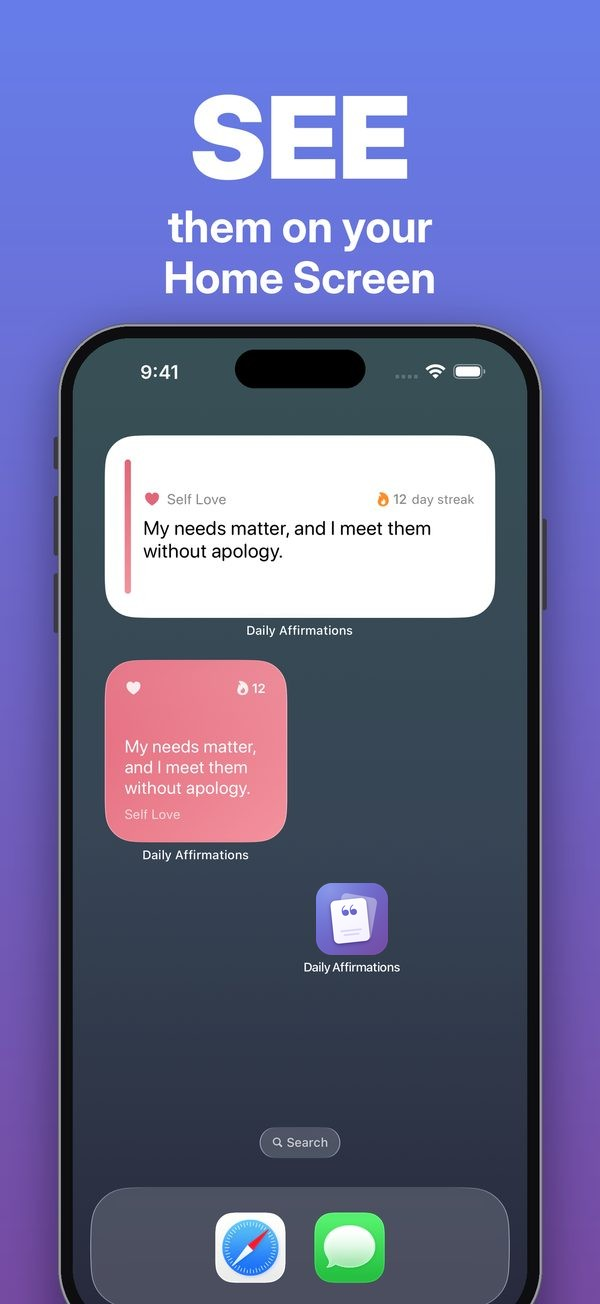
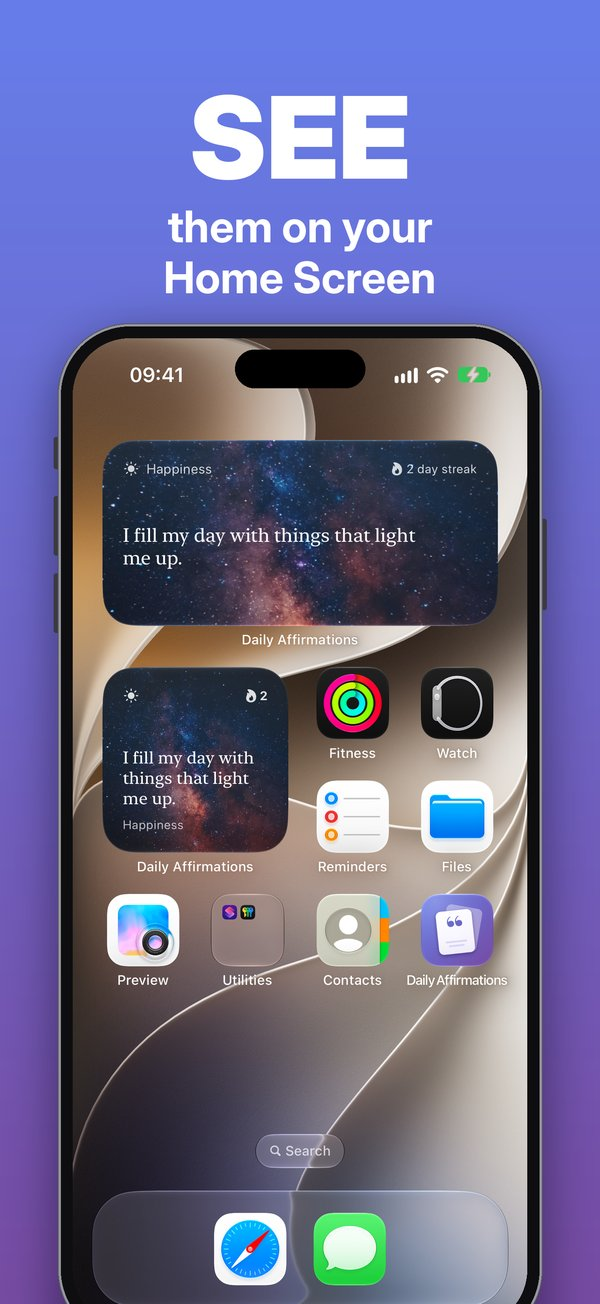
Show the new app design on acanalab.com, the Daily Affirmations page and the brand picker
- Daily Affirmations page: new hero phones, share image and screenshots
  (Today light and dark, Home Screen widgets, Favorites), a new STYLE
  screenshot for card styles in place of EXPLORE, card styles in the
  features and in the Free and Premium plans
- acanalab.com: card style button in the phone mockup, card styles in
  the feature list
- Brand picker: card style button on the Today preview
- Anxiety guide: use the Home Screen widgets screenshot, since the old
  EXPLORE screenshot is gone

Claude-Session: https://claude.ai/code/session_01TZoWyjUMYdWnx6pd6ZLJMu

diff --git a/dailyaffirmationsapp/index.html b/dailyaffirmationsapp/index.html
@@ -10,7 +10,7 @@
 <meta property="og:url" content="https://acanalab.com/dailyaffirmationsapp/">
 <meta property="og:title" content="Daily Affirmations App for iPhone">
 <meta property="og:description" content="Start your day with a kind word. Fresh affirmations every day, streaks, gentle reminders and widgets for your iPhone.">
-<meta property="og:image" content="https://acanalab.com/dailyaffirmationsapp/og-image.jpg">
+<meta property="og:image" content="https://acanalab.com/dailyaffirmationsapp/og-image.jpg?v=2">
 <meta property="og:image:width" content="1200">
 <meta property="og:image:height" content="630">
 <meta name="twitter:card" content="summary_large_image">
@@ -144,8 +144,8 @@ footer .love { margin-top: 8px; } footer .love span { color: #e2667a; }
     <p class="note">Free to download. For iPhone.<br><a href="guides/">Affirmation guides</a></p>
    </div>
    <div class="hero-art">
-     <img class="back" src="img/phone-swipe.webp" alt="" width="560" height="1150">
-     <img class="front" src="img/phone-today.webp" alt="The Today screen of Daily Affirmations with an affirmation card" width="560" height="1150">
+     <img class="back" src="img/phone-style.webp" alt="" width="560" height="1151">
+     <img class="front" src="img/phone-today.webp" alt="The Today screen of Daily Affirmations with an affirmation card" width="560" height="1151">
    </div>
   </div>
 </header>
@@ -158,8 +158,8 @@ footer .love { margin-top: 8px; } footer .love span { color: #e2667a; }
       <ul class="feats">
         <li><div class="ico"><svg viewBox="0 0 24 24"><path d="M12 3l2.6 5.6 6 .7-4.5 4.1 1.2 6L12 16.4 6.7 19.4l1.2-6L3.4 9.3l6-.7z"/></svg></div><b>Fresh every day</b><p>A new set of affirmations each morning. Swipe through them at your own pace.</p></li>
         <li><div class="ico"><svg viewBox="0 0 24 24"><path d="M4 6h16M4 12h16M4 18h10"/></svg></div><b>Hundreds of affirmations</b><p>Many categories, from self love and <a href="guides/gratitude-affirmations/">gratitude</a> to <a href="guides/affirmations-for-confidence/">confidence</a>, <a href="guides/affirmations-for-work/">work</a>, calm and <a href="guides/affirmations-for-anxiety/">affirmations for anxiety</a>.</p></li>
-        <li><div class="ico"><svg viewBox="0 0 24 24"><path d="M12 3c2 3 5 5 5 9a5 5 0 0 1-10 0c0-2 1-3.5 2-4.5 0 2 1 3 2 3 0-3 0-5 1-7.5z"/></svg></div><b>Streaks</b><p>See your progress grow, day by day, and celebrate every milestone.</p></li>
-        <li><div class="ico"><svg viewBox="0 0 24 24"><path d="M6 16V11a6 6 0 0 1 12 0v5l1.5 2h-15zM10 21h4"/></svg></div><b>Gentle reminders</b><p>Pick a time, morning or <a href="guides/affirmations-for-sleep/">bedtime</a>, and get one kind nudge a day. Change it or turn it off anytime.</p></li>
+        <li><div class="ico"><svg viewBox="0 0 24 24"><path d="M12 3c2 3 5 5 5 9a5 5 0 0 1-10 0c0-2 1-3.5 2-4.5 0 2 1 3 2 3 0-3 0-5 1-7.5z"/></svg></div><b>Streaks and reminders</b><p>Watch your streak grow and get one kind nudge a day, morning or <a href="guides/affirmations-for-sleep/">bedtime</a>. Change it or turn it off anytime.</p></li>
+        <li><div class="ico"><svg viewBox="0 0 24 24"><path d="M14.5 3.5l6 6-6.5 5-4.5-4.5zM9.5 10l4.5 4.5-1.5 2-5-5zM7.5 11.5l5 5-5.5 4c-1.2.9-3-.9-2.1-2.1z"/></svg></div><b>Card styles</b><p>Dress your cards in calm photo and texture styles, from white dunes to a starry sky.</p></li>
         <li><div class="ico"><svg viewBox="0 0 24 24"><rect x="4" y="4" width="7" height="7" rx="2"/><rect x="13" y="4" width="7" height="7" rx="2"/><rect x="4" y="13" width="16" height="7" rx="2"/></svg></div><b>Widgets</b><p>Keep today's affirmation on your Home Screen and Lock Screen.</p></li>
         <li><div class="ico"><svg viewBox="0 0 24 24"><path d="M12 20s-7-4.4-7-10a4 4 0 0 1 7-2.6A4 4 0 0 1 19 10c0 5.6-7 10-7 10z"/></svg></div><b>Favorites and sharing</b><p>Save the ones you love and share them as beautiful cards.</p></li>
       </ul>
@@ -177,7 +177,7 @@ footer .love { margin-top: 8px; } footer .love span { color: #e2667a; }
         <img src="img/04-get.jpg" alt="Get a gentle daily reminder" loading="lazy" width="600" height="1304">
         <img src="img/05-build.jpg" alt="Build a daily habit" loading="lazy" width="600" height="1304">
         <img src="img/06-save.jpg" alt="Save the ones you love" loading="lazy" width="600" height="1304">
-        <img src="img/07-explore.jpg" alt="Explore affirmations for every part of life" loading="lazy" width="600" height="1304">
+        <img src="img/07-style.jpg" alt="Style your cards your way" loading="lazy" width="600" height="1304">
         <img src="img/08-share.jpg" alt="Share a little positivity" loading="lazy" width="600" height="1304">
       </div>
     </div>
@@ -186,7 +186,7 @@ footer .love { margin-top: 8px; } footer .love span { color: #e2667a; }
   <section>
     <div class="wrap">
       <h2>Start free. Go Premium when you’re ready.</h2>
-      <p class="sub">Your daily affirmations, streaks and reminders are free, with no time limit. Premium adds widgets, every category and unlimited favorites.</p>
+      <p class="sub">Your daily affirmations, streaks and reminders are free, with no time limit. Premium adds widgets, every category, every card style and unlimited favorites.</p>
       <div class="plans">
         <div class="plan">
           <h3>Free</h3>
@@ -197,6 +197,7 @@ footer .love { margin-top: 8px; } footer .love span { color: #e2667a; }
             <li>Streaks and daily reminders</li>
             <li>Save up to 15 favorites</li>
             <li>Share as cards</li>
+            <li>Two card styles</li>
           </ul>
         </div>
         <div class="plan premium">
@@ -205,6 +206,7 @@ footer .love { margin-top: 8px; } footer .love span { color: #e2667a; }
           <ul>
             <li>Hundreds more affirmations in every category</li>
             <li>Home Screen and Lock Screen widgets</li>
+            <li>Every card style</li>
             <li>Unlimited favorites</li>
             <li>Everything in Free</li>
             <li>New features as we add them</li>

diff --git a/dailyaffirmationsapp/guides/affirmations-for-anxiety/index.html b/dailyaffirmationsapp/guides/affirmations-for-anxiety/index.html
@@ -10,12 +10,12 @@
 <meta property="og:url" content="https://acanalab.com/dailyaffirmationsapp/guides/affirmations-for-anxiety/">
 <meta property="og:title" content="Affirmations for Anxiety: 40 Calming Phrases | Daily Affirmations">
 <meta property="og:description" content="40 affirmations for anxiety: for anxious moments, overthinking, social situations and sleepless nights, plus 5 steps to use them when worry hits.">
-<meta property="og:image" content="https://acanalab.com/dailyaffirmationsapp/img/07-explore.jpg">
+<meta property="og:image" content="https://acanalab.com/dailyaffirmationsapp/img/03-see.jpg">
 <meta name="twitter:card" content="summary_large_image">
 <link rel="icon" type="image/png" href="/app-icon.png">
 <link rel="apple-touch-icon" href="/app-icon.png">
 <link rel="stylesheet" href="/dailyaffirmationsapp/guides/guides.css?v=514439a8">
-<script type="application/ld+json">{"@context": "https://schema.org", "@type": "Article", "headline": "Affirmations for anxiety: 40 calming phrases", "description": "40 affirmations for anxiety: for anxious moments, overthinking, social situations and sleepless nights, plus 5 steps to use them when worry hits.", "image": "https://acanalab.com/dailyaffirmationsapp/img/07-explore.jpg", "datePublished": "2026-10-22", "dateModified": "2026-10-22", "mainEntityOfPage": "https://acanalab.com/dailyaffirmationsapp/guides/affirmations-for-anxiety/", "author": {"@type": "Organization", "name": "acanalab", "url": "https://acanalab.com/"}, "publisher": {"@type": "Organization", "name": "acanalab", "url": "https://acanalab.com/"}}</script>
+<script type="application/ld+json">{"@context": "https://schema.org", "@type": "Article", "headline": "Affirmations for anxiety: 40 calming phrases", "description": "40 affirmations for anxiety: for anxious moments, overthinking, social situations and sleepless nights, plus 5 steps to use them when worry hits.", "image": "https://acanalab.com/dailyaffirmationsapp/img/03-see.jpg", "datePublished": "2026-10-22", "dateModified": "2026-10-22", "mainEntityOfPage": "https://acanalab.com/dailyaffirmationsapp/guides/affirmations-for-anxiety/", "author": {"@type": "Organization", "name": "acanalab", "url": "https://acanalab.com/"}, "publisher": {"@type": "Organization", "name": "acanalab", "url": "https://acanalab.com/"}}</script>
 <script type="application/ld+json">{"@context": "https://schema.org", "@type": "FAQPage", "mainEntity": [{"@type": "Question", "name": "Do affirmations help with anxiety?", "acceptedAnswer": {"@type": "Answer", "text": "They can help many people feel steadier in anxious moments, especially when the words are believable and practised daily. They work as a support alongside other habits like slow breathing, not as a treatment. If anxiety affects your daily life, speak to a doctor or therapist."}}, {"@type": "Question", "name": "What is a good affirmation for anxiety?", "acceptedAnswer": {"@type": "Answer", "text": "Short, honest sentences work best, such as \"This feeling is uncomfortable, and it will pass\" or \"I am safe right now\". They acknowledge the feeling instead of arguing with it."}}, {"@type": "Question", "name": "When should I say affirmations for anxiety?", "acceptedAnswer": {"@type": "Answer", "text": "Practise them once a day when you're calm, for example in the morning, so they're familiar. Then use one or two in the moment, paired with slow breaths, when you notice worry building."}}, {"@type": "Question", "name": "What if affirmations make my anxiety worse?", "acceptedAnswer": {"@type": "Answer", "text": "That usually means the sentence feels too far from how you feel. Soften it with a phrase like \"I am learning to\" or \"Right now, I\", or try a grounding exercise first and come back to the words later."}}]}</script>
 <script type="application/ld+json">{"@context": "https://schema.org", "@type": "BreadcrumbList", "itemListElement": [{"@type": "ListItem", "position": 1, "name": "Daily Affirmations", "item": "https://acanalab.com/dailyaffirmationsapp/"}, {"@type": "ListItem", "position": 2, "name": "Guides", "item": "https://acanalab.com/dailyaffirmationsapp/guides/"}, {"@type": "ListItem", "position": 3, "name": "Affirmations for anxiety: 40 calming phrases", "item": "https://acanalab.com/dailyaffirmationsapp/guides/affirmations-for-anxiety/"}]}</script>
 </head>
@@ -120,7 +120,7 @@
 <p>Naming the feeling makes the sentence honest. The second half gives you something you can actually do. For more ways to make an affirmation feel true, see <a href="../how-to-write-affirmations/">how to write affirmations</a>, and on hard days, a few <a href="../self-love-affirmations/">self-love affirmations</a> can help too.</p>
 
 <aside class="app">
-  <img src="/dailyaffirmationsapp/img/07-explore.jpg" alt="Exploring affirmation categories in Daily Affirmations" width="600" height="1304" loading="lazy">
+  <img src="/dailyaffirmationsapp/img/03-see.jpg" alt="Daily Affirmations widgets on the iPhone Home Screen" width="600" height="1304" loading="lazy">
   <div>
     <h2>Make it a daily habit</h2>
     <p>Daily Affirmations brings you a fresh set every morning, so calming words become familiar before you need them. Peace is a free category, Anxiety Relief is part of Premium, and a Home Screen widget keeps one steady sentence in sight all day.</p>

diff --git a/index.html b/index.html
@@ -109,6 +109,7 @@ h1 .grad { background: linear-gradient(135deg, var(--brand-a), var(--brand-b)); 
 .ui .batt { width: 27px; height: 13px; border-radius: 4px; background: #fff; position: relative; }
 .ui .batt::after { content: ""; position: absolute; right: -3px; top: 4px; width: 2px; height: 5px; border-radius: 1px; background: rgba(255,255,255,.5); }
 .ui .gear { position: absolute; left: 16px; top: 62px; width: 44px; height: 44px; border-radius: 50%; display: grid; place-items: center; font-size: 24px; background: rgba(58,58,60,.75); border: .5px solid rgba(255,255,255,.12); }
+.ui .brush { position: absolute; right: 16px; top: 62px; width: 44px; height: 44px; border-radius: 50%; display: grid; place-items: center; font-size: 22px; background: rgba(58,58,60,.75); border: .5px solid rgba(255,255,255,.12); }
 .ui .head { position: absolute; top: 124px; left: 16px; right: 16px; display: flex; justify-content: space-between; align-items: center; }
 .ui h3 { margin: 0; font-size: 28px; font-weight: 700; line-height: 1.1; font-family: ui-rounded, "SF Pro Rounded", -apple-system, system-ui, sans-serif; }
 .ui .date { font-size: 14px; font-weight: 500; color: rgba(235,235,245,.6); margin-top: 4px; }
@@ -296,6 +297,7 @@ footer .love { margin-top: 8px; } footer .love span { color: #e2667a; }
             <svg width="0" height="0" style="position:absolute"><defs><linearGradient id="hpFlame" x1="0" y1="1" x2="0" y2="0"><stop offset="0" stop-color="#ff9500"/><stop offset="1" stop-color="#ff3b30"/></linearGradient></defs></svg>
             <div class="status"><span>9:41</span><span class="island"></span><span class="batt"></span></div>
             <div class="gear"><svg viewBox="0 0 24 24"><path fill="none" stroke="currentColor" stroke-width="1.7" stroke-linejoin="round" d="M10.4 2.8h3.2l.5 2.5 1.7.8 2.2-1.5 2.3 2.3-1.5 2.2.8 1.7 2.5.5v3.2l-2.5.5-.8 1.7 1.5 2.2-2.3 2.3-2.2-1.5-1.7.8-.5 2.5h-3.2l-.5-2.5-1.7-.8-2.2 1.5-2.3-2.3 1.5-2.2-.8-1.7-2.5-.5v-3.2l2.5-.5.8-1.7-1.5-2.2 2.3-2.3 2.2 1.5 1.7-.8z"/><circle cx="12" cy="12" r="3.3" fill="none" stroke="currentColor" stroke-width="1.7"/></svg></div>
+            <div class="brush"><svg viewBox="0 0 24 24"><path fill="none" stroke="currentColor" stroke-width="1.7" stroke-linejoin="round" stroke-linecap="round" d="M14.5 3.5l6 6-6.5 5-4.5-4.5zM9.5 10l4.5 4.5-1.5 2-5-5zM7.5 11.5l5 5-5.5 4c-1.2.9-3-.9-2.1-2.1z"/></svg></div>
             <div class="head">
               <div><h3>Today</h3><div class="date" id="mockDate">Tuesday, 13 October</div></div>
               <div class="streak"><svg viewBox="0 0 24 24"><path d="M12.5 2c.6 3.8 5.5 6.2 5.5 11.5a6 6 0 0 1-12 0c0-2.8 1.4-4.6 3-5.8-.2 2.1.6 3.6 2 4 0-3.8-.6-6.3 1.5-9.7z"/></svg><b>7</b><span>days</span></div>
@@ -330,6 +332,7 @@ footer .love { margin-top: 8px; } footer .love span { color: #e2667a; }
           <li><span class="ico"><svg viewBox="0 0 24 24"><path d="M12 3c1 4 5 5 5 10a5 5 0 0 1-10 0c0-2.5 1.5-3.5 2-5 1 1 1.5 2 1.5 3 1-2 1.5-5 1.5-8z"/></svg></span><span><b>Streaks and reminders</b>a gentle daily habit that brings people back</span></li>
           <li><span class="ico"><svg viewBox="0 0 24 24"><rect x="3" y="3" width="7" height="7" rx="2"/><rect x="14" y="3" width="7" height="7" rx="2"/><rect x="3" y="14" width="7" height="7" rx="2"/><rect x="14" y="14" width="7" height="7" rx="2"/></svg></span><span><b>Widgets</b>on the Home Screen and Lock Screen</span></li>
           <li><span class="ico"><svg viewBox="0 0 24 24"><path d="M20.8 4.6a5.5 5.5 0 0 0-7.8 0L12 5.7l-1-1.1a5.5 5.5 0 0 0-7.8 7.8l1 1.1L12 21l7.8-7.5 1-1.1a5.5 5.5 0 0 0 0-7.8z"/></svg></span><span><b>Favorites and sharing</b>save the best ones and share them as cards</span></li>
+          <li><span class="ico"><svg viewBox="0 0 24 24"><path d="M14.5 3.5l6 6-6.5 5-4.5-4.5zM9.5 10l4.5 4.5-1.5 2-5-5zM7.5 11.5l5 5-5.5 4c-1.2.9-3-.9-2.1-2.1z"/></svg></span><span><b>Card styles</b>calm photo and texture backgrounds for every card</span></li>
         </ul>
         <a class="live" id="showcaseLink" href="dailyaffirmationsapp/" target="_blank" rel="noopener">
           <div class="info"><img src="app-icon.png" alt="" width="52" height="52"><span><b>Daily Affirmations</b><small>Our own app on the App Store</small></span></div>

diff --git a/design/index.html b/design/index.html
@@ -219,6 +219,7 @@ details.dev pre { background: var(--field); border: 1px solid var(--line); borde
 .ios-dark .glassbtn { background: rgba(58,58,60,.75); border-color: rgba(255,255,255,.1); }
 .today { background: var(--ios-grouped); height: 100%; position: relative; }
 .today .gear { left: 15px; top: 58px; }
+.today .brush { right: 15px; top: 58px; }
 .today .head { display: flex; justify-content: space-between; align-items: center; padding: 0 16px 0 16px; position: absolute; top: 120px; left: 0; right: 0; }
 .today h3 { font-family: ui-rounded, "SF Pro Rounded", -apple-system, system-ui, sans-serif; font-size: 28px; font-weight: 700; margin: 0; line-height: 1.1; }
 .today .date { font-size: 14px; font-weight: 500; color: var(--ios-secondary); margin-top: 4px; }
@@ -324,6 +325,7 @@ details.dev pre { background: var(--field); border: 1px solid var(--line); borde
     <symbol id="i-check" viewBox="0 0 24 24"><path fill="none" stroke="currentColor" stroke-width="3" stroke-linecap="round" stroke-linejoin="round" d="M5 12.5l4.5 4.5L19 7.5"/></symbol>
     <symbol id="i-xmark" viewBox="0 0 24 24"><path fill="none" stroke="currentColor" stroke-width="2.4" stroke-linecap="round" d="M6 6l12 12M18 6L6 18"/></symbol>
     <symbol id="i-calendar" viewBox="0 0 24 24"><path fill-rule="evenodd" d="M6 3.5h12A2.5 2.5 0 0 1 20.5 6v12a2.5 2.5 0 0 1-2.5 2.5H6A2.5 2.5 0 0 1 3.5 18V6A2.5 2.5 0 0 1 6 3.5zM5.5 9v9c0 .3.2.5.5.5h12c.3 0 .5-.2.5-.5V9zM7.5 11h2v2h-2zm3.5 0h2v2h-2zm3.5 0h2v2h-2zM7.5 14.5h2v2h-2zm3.5 0h2v2h-2z"/></symbol>
+    <symbol id="i-paintbrush" viewBox="0 0 24 24"><path fill="none" stroke="currentColor" stroke-width="1.7" stroke-linejoin="round" stroke-linecap="round" d="M14.5 3.5l6 6-6.5 5-4.5-4.5zM9.5 10l4.5 4.5-1.5 2-5-5zM7.5 11.5l5 5-5.5 4c-1.2.9-3-.9-2.1-2.1z"/></symbol>
     <symbol id="i-gear-o" viewBox="0 0 24 24"><path fill="none" stroke="currentColor" stroke-width="1.7" stroke-linejoin="round" d="M10.4 2.8h3.2l.5 2.5 1.7.8 2.2-1.5 2.3 2.3-1.5 2.2.8 1.7 2.5.5v3.2l-2.5.5-.8 1.7 1.5 2.2-2.3 2.3-2.2-1.5-1.7.8-.5 2.5h-3.2l-.5-2.5-1.7-.8-2.2 1.5-2.3-2.3 1.5-2.2-.8-1.7-2.5-.5v-3.2l2.5-.5.8-1.7-1.5-2.2 2.3-2.3 2.2 1.5 1.7-.8z"/><circle cx="12" cy="12" r="3.3" fill="none" stroke="currentColor" stroke-width="1.7"/></symbol>
     <symbol id="i-sparkles" viewBox="0 0 24 24"><path fill="currentColor" d="M10 2.5c.6 4.6 2.5 6.5 7 7.1-4.5.6-6.4 2.5-7 7.1-.6-4.6-2.5-6.5-7-7.1 4.5-.6 6.4-2.5 7-7.1zM18.2 13c.3 2.2 1 2.9 3.2 3.2-2.2.3-2.9 1-3.2 3.2-.3-2.2-1-2.9-3.2-3.2 2.2-.3 2.9-1 3.2-3.2zM18.5 2.2c.2 1.4.7 1.9 2.1 2.1-1.4.2-1.9.7-2.1 2.1-.2-1.4-.7-1.9-2.1-2.1 1.4-.2 1.9-.7 2.1-2.1z"/></symbol>
     <symbol id="i-heart.fill" viewBox="0 0 24 24"><path fill="currentColor" d="M12 21s-7.5-4.6-9.6-9.2C.9 8.4 3 4.5 6.8 4.5c2.1 0 3.6 1.1 5.2 3 1.6-1.9 3.1-3 5.2-3 3.8 0 5.9 3.9 4.4 7.3C19.5 16.4 12 21 12 21z"/></symbol>
@@ -563,6 +565,7 @@ details.dev pre { background: var(--field); border: 1px solid var(--line); borde
         <div class="phone-wrap"><div class="bezel"><div class="screen today">
           <div class="status"><span>9:41</span><span class="island"></span><span class="bars">●●● <span class="batt"></span></span></div>
           <div class="glassbtn gear"><svg class="sym"><use href="#i-gear-o"/></svg></div>
+          <div class="glassbtn brush" title="Card style"><svg class="sym"><use href="#i-paintbrush"/></svg></div>
           <div class="head">
             <div><h3>Today</h3><div class="date" id="todayDate"></div></div>
             <div class="streak"><svg class="sym flame"><use href="#i-flame.fill"/></svg><b>3</b><span>days</span></div>
